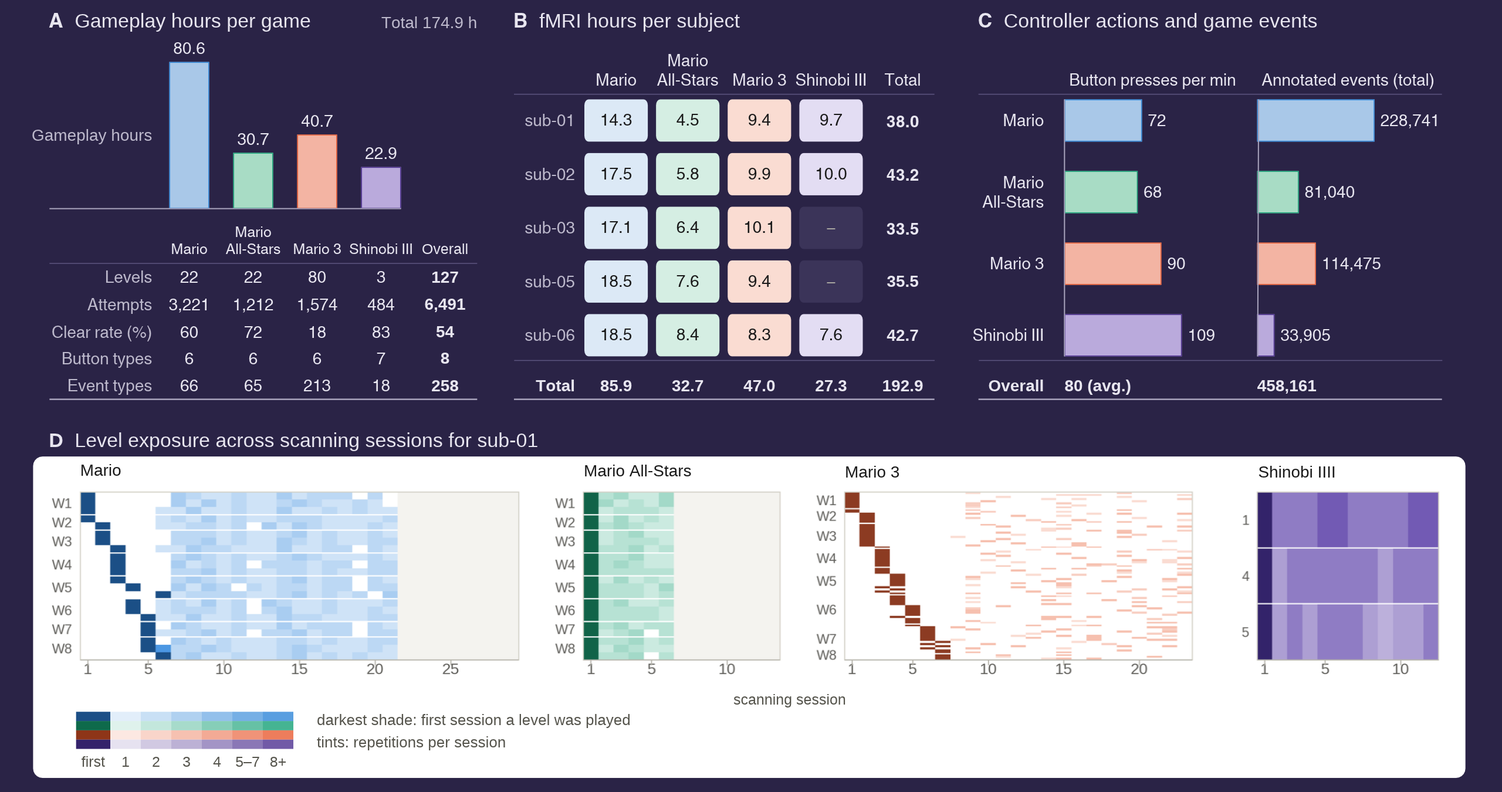
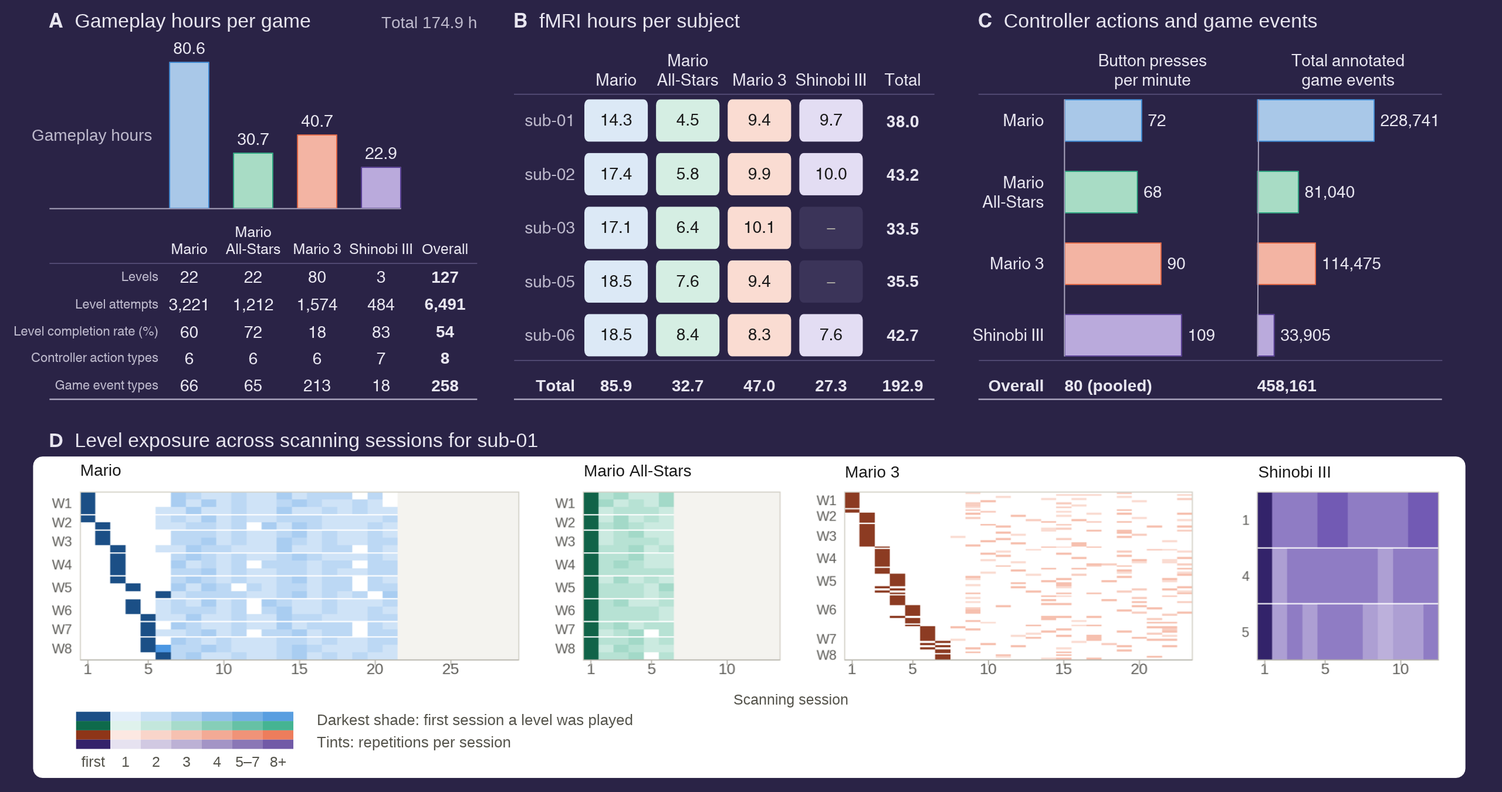
Text fixes

diff --git a/2027/challenge.html b/2027/challenge.html
@@ -128,44 +128,47 @@
         <div class="panel-inner">
             <div class="prose">
                 <h2>Challenge overview</h2>
-                <p>The goal of the Algonauts Project 2027 challenge is to provide a platform where participants can train encoding models of human fMRI responses during gameplay, and then test these models’ generalization both in-distribution (ID) and out-of-distribution (OOD).</p>
+                <p>Participants train encoding models to predict brain responses from gameplay video, audio, controller actions and game events. We measure the responses with functional magnetic resonance imaging (fMRI) and average the signal within each of 1,134 brain regions, called parcels.</p>
+                <p>How well does a model trained on three games predict brain responses during other games? We test in-distribution (ID) generalization using a remake that preserves the levels and basic actions of Super Mario Bros. We test out-of-distribution (OOD) generalization using a separate set of hidden games.</p>
             </div>
 
             <!-- Figure 1 -->
-            <figure class="figure fig1-full">
-                <a class="figure-mat fig1-mat only-dark" href="img/Algonauts%202027%20challenge%20overview%20(wide%20dark).png" target="_blank" rel="noopener">
-                    <img src="img/Algonauts%202027%20challenge%20overview%20(wide%20dark).png" alt="Panels A–C show the training games, the Super Mario All-Stars ID test game and how gameplay data are used to predict fMRI responses in 1,134 parcels. Panels D–F show the baseline brain maps, OOD testing and the public ID and OOD benchmarks." width="2200" height="1850" loading="lazy">
-                </a>
-                <a class="figure-mat fig1-mat only-light" href="img/Algonauts%202027%20challenge%20overview%20(wide).png" target="_blank" rel="noopener">
-                    <img src="img/Algonauts%202027%20challenge%20overview%20(wide).png" alt="Panels A–C show the training games, the Super Mario All-Stars ID test game and how gameplay data are used to predict fMRI responses in 1,134 parcels. Panels D–F show the baseline brain maps, OOD testing and the public ID and OOD benchmarks." width="2200" height="1850" loading="lazy">
-                </a>
-                <figcaption><strong>Figure 1 | Overview of the challenge.</strong> (A–C) Encoding models use gameplay video, audio, controller actions and game event annotations to predict fMRI responses across 1,134 brain parcels.
-                (D) Models train on Super Mario Bros., Super Mario Bros. 3 and Shinobi III. ID testing uses all recorded levels from Super Mario All-Stars. The maps show the baseline model’s per-parcel prediction accuracy averaged across the five test subjects (overall <em>r</em> = 0.209).
-                (E) OOD prediction accuracy determines the final ranking. The question marks represent the OOD games, whose number is undisclosed.
-                (F) ID and OOD testing continue as public benchmarks.
-                <br><a class="fig-open only-dark" href="img/Algonauts%202027%20challenge%20overview%20(wide%20dark).png" target="_blank" rel="noopener">Open full size &#8599;</a><a class="fig-open only-light" href="img/Algonauts%202027%20challenge%20overview%20(wide).png" target="_blank" rel="noopener">Open full size &#8599;</a></figcaption>
+            <figure class="figure">
+                <div class="fig1-full">
+                    <a class="figure-mat fig1-mat only-dark" href="img/Algonauts%202027%20challenge%20overview%20(wide%20dark).png" target="_blank" rel="noopener">
+                        <img src="img/Algonauts%202027%20challenge%20overview%20(wide%20dark).png" alt="Panels A–C show the training games, the Super Mario All-Stars ID test game and how gameplay data are used to predict fMRI responses in 1,134 parcels. Panels D–F show the baseline brain maps, OOD testing and the public ID and OOD benchmarks." width="2200" height="1950" loading="lazy">
+                    </a>
+                    <a class="figure-mat fig1-mat only-light" href="img/Algonauts%202027%20challenge%20overview%20(wide).png" target="_blank" rel="noopener">
+                        <img src="img/Algonauts%202027%20challenge%20overview%20(wide).png" alt="Panels A–C show the training games, the Super Mario All-Stars ID test game and how gameplay data are used to predict fMRI responses in 1,134 parcels. Panels D–F show the baseline brain maps, OOD testing and the public ID and OOD benchmarks." width="2200" height="1950" loading="lazy">
+                    </a>
+                    <a class="fig-open only-dark" href="img/Algonauts%202027%20challenge%20overview%20(wide%20dark).png" target="_blank" rel="noopener">Open full size &#8599;</a><a class="fig-open only-light" href="img/Algonauts%202027%20challenge%20overview%20(wide).png" target="_blank" rel="noopener">Open full size &#8599;</a>
+                </div>
+                <!-- Figure 1, phone version -->
+                <div class="fig-web" role="group" aria-label="Figure 1, simplified">
+                    <p class="label">Figure 1, simplified</p>
+                    <ol class="fw-flow">
+                        <li><span class="fw-k">Input</span><strong>Gameplay data</strong><span>Video, audio, controller actions and game events</span></li>
+                        <li><span class="fw-k">Model</span><strong>Encoding model</strong></li>
+                        <li><span class="fw-k">Output</span><strong>Predicted fMRI</strong><span>1,134 brain parcels</span></li>
+                    </ol>
+                    <ol class="fw-phases">
+                        <li><span class="fw-k">Phase 1</span><strong>Development Phase</strong><span>Model training on Super Mario Bros., Super Mario Bros. 3 and Shinobi III. In-distribution (ID) testing on all recorded levels from Super Mario All-Stars. Baseline <em>r</em> = 0.209.</span></li>
+                        <li><span class="fw-k">Phase 2</span><strong>Generalization Phase</strong><span>Out-of-distribution (OOD) testing on hidden games and final ranking</span></li>
+                        <li><span class="fw-k">After the challenge</span><strong>Post-Challenge Benchmark</strong><span>Ongoing public ID and OOD benchmark</span></li>
+                    </ol>
+                    <p style="margin-top:14px"><a class="text-link only-dark" href="img/Algonauts%202027%20challenge%20overview%20(wide%20dark).png" target="_blank" rel="noopener">Open the original Figure 1 &#8599;</a><a class="text-link only-light" href="img/Algonauts%202027%20challenge%20overview%20(wide).png" target="_blank" rel="noopener">Open the original Figure 1 &#8599;</a></p>
+                </div>
+                <figcaption><strong>Figure 1 | Overview of the Algonauts Project 2027 challenge</strong>.
+                <strong>(A-B)</strong> Challenge participants receive gameplay data in the form of video, audio, controller actions, and game events from four challenge games: <em>Super Mario Bros.</em> (SMB), <em>Super Mario All-Stars</em>, <em>Super Mario Bros. 3</em> (SMB3), and <em>Shinobi III: Return of the Ninja Master</em>.
+                <strong>(C)</strong> This data serves as input to encoding models that predict fMRI responses across 1,134 brain parcels.
+                <strong>(D)</strong> During the challenge Development Phase, models are trained on released fMRI data from SMB, SMB3, and Shinobi III, and tested on all recorded levels from <em>Super Mario All-Stars</em> for in-distribution (ID) generalization. The brain maps show the prediction accuracy of the challenge baseline model on the ID test data, measured as Pearson's <em>r</em> for each brain parcel and averaged across the five test subjects.
+                <strong>(E)</strong> During the Generalization Phase, models are tested on out-of-distribution (OOD) games for OOD generalization, with performance determining the final challenge ranking. All gameplay data are released for both test sets, while the corresponding fMRI responses remain hidden.
+                <strong>(F)</strong> During the Post-Challenge Phase, both ID and OOD testing continue as public benchmarks using the same held-out sets and hidden fMRI responses.</figcaption>
             </figure>
 
-            <!-- Figure 1, phone version -->
-            <div class="fig-web" role="group" aria-label="Figure 1, simplified">
-                <p class="label">Figure 1, simplified</p>
-                <ol class="fw-flow">
-                    <li><span class="fw-k">Input</span><strong>Gameplay data</strong><span>Video, audio, controller actions and game events</span></li>
-                    <li><span class="fw-k">Model</span><strong>Encoding model</strong></li>
-                    <li><span class="fw-k">Output</span><strong>Predicted fMRI</strong><span>1,134 brain parcels</span></li>
-                </ol>
-                <ol class="fw-phases">
-                    <li><span class="fw-k">Phase 1</span><strong>Development Phase</strong><span>Model training on Super Mario Bros., Super Mario Bros. 3 and Shinobi III. In-distribution (ID) testing on all recorded levels from Super Mario All-Stars. Baseline <em>r</em> = 0.209.</span></li>
-                    <li><span class="fw-k">Phase 2</span><strong>Generalization Phase</strong><span>Out-of-distribution (OOD) testing on hidden games and final ranking</span></li>
-                    <li><span class="fw-k">After the challenge</span><strong>Post-Challenge Benchmark</strong><span>Ongoing public ID and OOD benchmark</span></li>
-                </ol>
-                <p style="margin-top:14px"><a class="text-link only-dark" href="img/Algonauts%202027%20challenge%20overview%20(wide%20dark).png" target="_blank" rel="noopener">Open the original Figure 1 &#8599;</a><a class="text-link only-light" href="img/Algonauts%202027%20challenge%20overview%20(wide).png" target="_blank" rel="noopener">Open the original Figure 1 &#8599;</a></p>
-            </div>
-
             <div class="prose block">
-                <p>We provide gameplay video, audio, controller actions and game event annotations aligned with fMRI responses from five subjects.
-                We release both gameplay data and fMRI responses for the three model training games. For both test sets, we release all gameplay data and keep the corresponding fMRI responses hidden.
-                Participants submit predicted fMRI responses to Codabench for scoring.</p>
+                <p>We release gameplay data and the corresponding fMRI responses for the three model training games. The Mario games have recordings from all five subjects and Shinobi III has recordings from three. For both test sets, we release all gameplay data and keep the corresponding fMRI responses hidden.
+                Participants submit predicted fMRI responses to the challenge platform, Codabench, for automatic scoring.</p>
                 <div class="btn-row" style="margin-top:22px">
                     <a href="data.html" class="btn btn-primary">Challenge data</a>
                     <a href="#" class="btn btn-ghost">Participate on Codabench</a><!-- TODO -->
@@ -178,6 +181,7 @@
     <section class="panel" id="phases" role="tabpanel" aria-labelledby="tab-phases">
         <div class="panel-inner">
             <h2>Challenge phases</h2>
+            <p class="prose">The challenge has two competitive phases. During the Development Phase, participants compare models on the in-distribution (ID) test game. During the Generalization Phase, prediction accuracy on the out-of-distribution (OOD) games determines the final ranking. The two tests remain available after the competition.</p>
             <div class="table-wrap">
                 <table class="table">
                     <thead><tr><th>Phase</th><th>Dates</th><th>Test data (fMRI withheld)</th><th>Submissions per team</th></tr></thead>
@@ -193,8 +197,8 @@
                 <p><strong>Model training.</strong> The three <a href="data.html#training-games">model training games</a> are Super Mario Bros., Super Mario Bros. 3 and Shinobi III: Return of the Ninja Master. We provide approximately 144 hours of gameplay data and the corresponding fMRI responses for model training.</p>
                 <p><strong>ID testing.</strong> We use the Super Mario Bros. remake in <a href="data.html#id-test">Super Mario All-Stars</a>, which preserves the original levels and basic actions. We release approximately 30 hours of gameplay data across all 22 recorded levels and five test subjects. The corresponding fMRI responses remain hidden. Participants <a href="#submission">submit predicted fMRI responses</a> to Codabench, where they are scored against the hidden responses. Participants can use their ID scores to compare model variants during this phase.</p>
                 <h3>Generalization Phase</h3>
-                <p><strong>OOD testing.</strong> At the start of this phase, we reveal the <a href="data.html#ood-games">OOD games</a> and release approximately two hours of gameplay data per test subject. We provide the same gameplay data modalities as during the Development Phase and keep the corresponding fMRI responses hidden. Withholding the game identities until this phase begins limits game-specific preparation.</p>
-                <p>Participants submit predicted fMRI responses for the OOD games to Codabench. Game scores are averaged within each subject, weighting games equally, and then averaged across subjects. Only OOD prediction accuracy determines the final ranking among teams that meet the <a href="#rules">requirements for the final ranking</a>. The <a href="#evaluation">Evaluation and submission</a> section describes the scoring procedure.</p>
+                <p><strong>OOD testing.</strong> At the start of this phase, we reveal the <a href="data.html#ood-games">OOD games</a> and release approximately two hours of gameplay data per test subject. We provide the same gameplay data modalities as during the Development Phase and keep the corresponding fMRI responses hidden. Withholding the game identities until this phase begins limits game-specific preparation. The number of question marks in Figure 1 does not indicate how many OOD games will be released.</p>
+                <p>Participants submit predicted fMRI responses for the OOD games to Codabench. Game scores are averaged within each subject, weighting games equally, and then averaged across subjects. Only OOD prediction accuracy determines the final ranking among <a href="#rules">eligible teams</a>. The <a href="#evaluation">Evaluation and submission</a> section describes the scoring procedure.</p>
                 <h3>Post-Challenge Benchmark</h3>
                 <p>Following the competitive phases, the ID and OOD tests remain open as public benchmarks. Participants can submit predictions for the same test gameplay data to compare future models with submissions from the official challenge. The corresponding fMRI responses remain hidden.</p>
             </div>
@@ -206,7 +210,7 @@
         <div class="panel-inner">
         <div class="prose">
             <h2>Evaluation and submission</h2>
-            <p>For each subject and game, Codabench concatenates the predicted and measured fMRI time series across all corresponding gameplay videos in the test set. It then calculates Pearson’s correlation coefficient (<em>r</em>) between the predicted and measured sequences separately for each of the 1,134 brain parcels. The platform averages the parcel correlations to obtain one score per subject and game. For the OOD test set, which contains multiple games, it averages game scores within each subject, weighting games equally. It then averages the scores across subjects to obtain a single prediction accuracy score per submission for each test set. Codabench uses the ID scores to rank submissions on the public leaderboard during the Development Phase, and the OOD scores to determine the final challenge ranking.</p>
+            <p>For each subject and game, Codabench joins the predicted and measured fMRI responses across all corresponding gameplay videos to form two time series. For each of the 1,134 brain parcels, it calculates Pearson’s correlation coefficient (<em>r</em>), which measures how closely the two series vary together over time. The platform averages the parcel correlations to obtain one score per subject and game. For the OOD test set, which contains multiple games, it averages game scores within each subject, weighting games equally. It then averages the scores across subjects to obtain a single prediction accuracy score per submission for each test set. Codabench uses the ID scores to rank submissions on the public leaderboard during the Development Phase, and the OOD scores to determine the final challenge ranking.</p>
             <p>All five subjects are tested: <span class="subj">sub-01</span>, <span class="subj">sub-02</span>,
             <span class="subj">sub-03</span>, <span class="subj">sub-05</span> and <span class="subj">sub-06</span>.</p>
 
@@ -273,18 +277,16 @@
             <div class="block">
                 <div class="prose">
                     <h2>Baseline model</h2>
-                    <p>We provide a challenge baseline model as a working example and a reference point for prediction accuracy. Participants may use their own features, model architectures, and training strategies. Features extracted from the gameplay data are aligned to the 1.49-second fMRI
-                    sampling grid, combined across a window of recent gameplay shifted for the hemodynamic delay, and mapped
-                    onto each of the 1,134 parcels with ridge regression. ID prediction score on Super Mario All-Stars: <em>r</em> = 0.209.</p>
+                    <p>We provide a challenge baseline model as a working example and a reference point for prediction accuracy. Participants may use their own features, model architectures, and training strategies. The model summarizes each gameplay input as a set of numerical features for each 1.49-second fMRI sampling interval. It uses features from recent intervals to account for the delay between neural activity and the measured fMRI response. For each brain parcel, ridge regression fits a weighted combination of these features and penalizes large weights. On the in-distribution test game, Super Mario All-Stars, the baseline achieved a prediction score of <em>r</em> = 0.209.</p>
                 </div>
                 <div class="table-wrap" style="max-width:var(--textw)">
                     <table class="table">
                         <thead><tr><th>Gameplay data</th><th>Features</th></tr></thead>
                         <tbody>
-                            <tr><td>Video</td><td>Slow R50 video network, 100 principal components</td></tr>
-                            <tr><td>Audio</td><td>Mel frequency cepstral coefficients, 10 principal components</td></tr>
-                            <tr><td>Controller actions</td><td>Fraction of each interval a button is held, 9 actions</td></tr>
-                            <tr><td>Game events</td><td>Event activity weighted by sentence embeddings of the event descriptions, 385 features</td></tr>
+                            <tr><td>Video</td><td>Visual features from the Slow R50 video network, summarized by the 100 principal components that capture the most variation</td></tr>
+                            <tr><td>Audio</td><td>Mel-frequency cepstral coefficients, which describe the sound spectrum, summarized by 10 principal components</td></tr>
+                            <tr><td>Controller actions</td><td>Fraction of each interval that each action is held. The Development Kit uses nine action labels, including <code>Action/Other</code>.</td></tr>
+                            <tr><td>Game events</td><td>Each event description is encoded as 384 numbers and weighted by the activity of that event in the interval. Combining these vectors and adding total event activity gives 385 features.</td></tr>
                         </tbody>
                     </table>
                 </div>
@@ -300,7 +302,7 @@
                 <a href="https://doi.org/10.1016/j.conb.2019.04.002" target="_blank" rel="noopener">Kriegeskorte &amp; Douglas, 2019</a>).
                 The Development Kit illustrates the three steps below.</p>
                 <ol class="num-list">
-                    <li><strong>Feature extraction.</strong> Extract features from the gameplay video, audio, controller actions and game event annotations for the model training games.</li>
+                    <li><strong>Feature extraction.</strong> Convert gameplay video, audio, controller actions and game event annotations from the model training games into numerical features.</li>
                     <li><strong>Model training.</strong> Use the paired gameplay features and measured fMRI responses to fit a linear mapping for each brain parcel. The challenge baseline model uses ridge regression.</li>
                     <li><strong>Model testing.</strong> Apply the trained mapping to features from the test gameplay data to predict the corresponding fMRI responses. Codabench compares these predictions with the hidden measured responses.</li>
                 </ol>

diff --git a/2027/data.html b/2027/data.html
@@ -70,7 +70,7 @@
         <div class="page-head-inner">
             <div>
                 <h1>Challenge Data</h1>
-                <p class="lead">The Courtois NeuroMod Project recorded gameplay video, audio, controller actions, game events, and corresponding whole-brain fMRI responses while subjects played four retro video games.</p>
+                <p class="lead">The Courtois NeuroMod Project (CNeuroMod) recorded gameplay video, audio, controller actions and game events while five subjects played retro video games. Functional magnetic resonance imaging (fMRI) measured their brain responses during play.</p>
                 <div class="btn-row">
                     <a href="#" class="btn btn-primary">Request data access</a><!-- TODO: data access form -->
                 </div>
@@ -92,13 +92,13 @@
 
     <div class="hud" role="region" aria-label="Dataset at a glance">
         <div class="hud-inner">
-            <div class="hud-item"><span class="hud-k">Gameplay</span><span class="hud-v">~174 h</span></div>
-            <div class="hud-item"><span class="hud-k">fMRI</span><span class="hud-v">~192 h</span></div>
+            <div class="hud-item"><span class="hud-k">Gameplay</span><span class="hud-v">174.9 h</span></div>
+            <div class="hud-item"><span class="hud-k">fMRI</span><span class="hud-v">192.9 h</span></div>
             <div class="hud-item"><span class="hud-k">Games</span><span class="hud-v">4 + hidden</span></div>
             <div class="hud-item"><span class="hud-k">Subjects</span><span class="hud-v">5</span></div>
             <div class="hud-item"><span class="hud-k">Brain parcels</span><span class="hud-v">1,134</span></div>
-            <div class="hud-item"><span class="hud-k">Sampling (TR)</span><span class="hud-v">1.49 s</span></div>
-            <p class="hud-note">The four challenge games contain approximately 174 hours of gameplay, with about 144 hours for model training and 30 hours for ID testing. The 192 hours of fMRI include periods outside active gameplay, such as loading screens and fixation periods. For ID and OOD testing, participants predict only fMRI responses corresponding to gameplay. All five subjects are tested.</p>
+            <div class="hud-item"><span class="hud-k">fMRI sampling interval</span><span class="hud-v">1.49 s</span></div>
+            <p class="hud-note">The four named games contain about 144 hours of gameplay for model training and 30 hours for in-distribution (ID) testing on the Super Mario Bros. remake. The fMRI recordings also include loading screens and fixation periods, so they are longer than the gameplay recordings. For both ID testing and out-of-distribution (OOD) testing on hidden games, participants predict only the responses during gameplay. Each prediction gives one value per brain region (parcel) every 1.49 seconds.</p>
         </div>
     </div>
 
@@ -108,7 +108,7 @@
             <div class="prose">
                 <h2 class="h2" style="margin-bottom:14px">Access the data</h2>
                 <p>The challenge data are collected and curated by the
-                <a href="https://www.cneuromod.ca/" target="_blank" rel="noopener">Courtois NeuroMod Project (CNeuroMod)</a>.
+                <a href="https://www.cneuromod.ca/" target="_blank" rel="noopener">Courtois NeuroMod Project</a>.
                 Please read the README in each game’s folder before exploring its data: it explains the recording setup,
                 the available files and game-specific caveats.</p>
             </div>
@@ -116,7 +116,7 @@
             <ol class="num-list" style="margin-top:6px">
                 <li>Fill out the <a href="#">data access form</a>.</li><!-- TODO -->
                 <li>You receive the link to the repository with the <strong>challenge data released for the current phase</strong>, and to a tutorial
-                subset with <span class="subj">sub-01</span> used by the Development Kit.</li>
+                subset for one subject (<span class="subj">sub-01</span>) used by the Development Kit.</li>
                 <li>Follow the <a href="challenge.html#baseline">Development Kit</a> to load, align and model the data.</li>
             </ol>
             <!-- Optional external training data -->
@@ -124,7 +124,7 @@
             also train on external data, for example the CNeuroMod
             <a href="https://docs.cneuromod.ca/datasets/friends.html" target="_blank" rel="noopener">Friends</a> and
             <a href="https://docs.cneuromod.ca/datasets/movie10.html" target="_blank" rel="noopener">Movie10</a> datasets,
-            whose fMRI time series have also been extracted with the CNeuroMod 2026 atlas used in this challenge. They are
+            whose fMRI time series have also been extracted with the CNeuroMod 2026 atlas that defines the brain parcels used in this challenge. They are
             not part of the official challenge training data or the ID and OOD test sets.</p>
             </div>
         </div>
@@ -146,9 +146,8 @@
             <section class="games" id="training-games" aria-labelledby="games-title">
                 <h2 id="games-title">Model training games</h2>
                 <p class="games-intro">We release gameplay data and the corresponding fMRI responses for all recorded levels of three
-                games. Super Mario Bros. and Super Mario Bros. 3 provide related environments with differences in visual
-                appearance, level design and game mechanics. Shinobi III differs more substantially in its visual content,
-                actions, event structure and behavioral demands.</p>
+                games. In Super Mario Bros. (SMB) and Super Mario Bros. 3 (SMB3), subjects navigate levels by running, jumping and avoiding or defeating enemies. Shinobi III combines platform navigation with ninja combat.</p>
+                <p class="games-intro">The counts below include attempts across all subjects. An attempt starts when a subject plays a level from the beginning. An attempt can span several lives. Restarting the level from the beginning counts as a new attempt.</p>
                 <ul class="catalog">
                     <li class="cat-item">
                         <div class="cat-shot"><img src="img/games/cat_mario_w1l1.png" alt="Super Mario Bros. gameplay in World 1-1: Mario stands on a row of bricks and ? blocks, a Goomba walks below" width="672" height="378" loading="lazy"></div>
@@ -199,19 +198,18 @@
             <div class="block-rule coverage-wrap" id="subjects">
                 <div class="prose">
                     <h2>Subjects</h2>
-                    <p>Subject coverage differs across games. All five subjects played the three Mario games, and
-                    three of them also played Shinobi III. All five subjects are tested.</p>
+                    <p>Subject coverage differs across games. All five subjects have recordings for the three Mario games. Three of them (sub-01, sub-02 and sub-06) also have recordings for Shinobi III. Both the ID and OOD test sets include all five subjects.</p>
                 </div>
                 <div class="table-wrap">
                     <table class="coverage">
-                        <caption class="sr-only">Games played by each subject</caption>
-                        <thead><tr><th></th><th scope="col">SMB</th><th scope="col">SMB3</th><th scope="col">Shinobi</th><th scope="col" class="c-gap">All-Stars</th></tr></thead>
+                        <caption class="sr-only">Available game recordings for each subject</caption>
+                        <thead><tr><th></th><th scope="col">SMB</th><th scope="col">SMB3</th><th scope="col">Shinobi III</th><th scope="col" class="c-gap">All-Stars</th></tr></thead>
                         <tbody>
-                            <tr><th scope="row">sub-01</th><td class="on"><span class="sr-only">played</span></td><td class="on"><span class="sr-only">played</span></td><td class="on"><span class="sr-only">played</span></td><td class="on c-gap"><span class="sr-only">played</span></td></tr>
-                            <tr><th scope="row">sub-02</th><td class="on"><span class="sr-only">played</span></td><td class="on"><span class="sr-only">played</span></td><td class="on"><span class="sr-only">played</span></td><td class="on c-gap"><span class="sr-only">played</span></td></tr>
-                            <tr><th scope="row">sub-03</th><td class="on"><span class="sr-only">played</span></td><td class="on"><span class="sr-only">played</span></td><td><span class="sr-only">not played</span></td><td class="on c-gap"><span class="sr-only">played</span></td></tr>
-                            <tr><th scope="row">sub-05</th><td class="on"><span class="sr-only">played</span></td><td class="on"><span class="sr-only">played</span></td><td><span class="sr-only">not played</span></td><td class="on c-gap"><span class="sr-only">played</span></td></tr>
-                            <tr><th scope="row">sub-06</th><td class="on"><span class="sr-only">played</span></td><td class="on"><span class="sr-only">played</span></td><td class="on"><span class="sr-only">played</span></td><td class="on c-gap"><span class="sr-only">played</span></td></tr>
+                            <tr><th scope="row">sub-01</th><td class="on"><span class="sr-only">recorded</span></td><td class="on"><span class="sr-only">recorded</span></td><td class="on"><span class="sr-only">recorded</span></td><td class="on c-gap"><span class="sr-only">recorded</span></td></tr>
+                            <tr><th scope="row">sub-02</th><td class="on"><span class="sr-only">recorded</span></td><td class="on"><span class="sr-only">recorded</span></td><td class="on"><span class="sr-only">recorded</span></td><td class="on c-gap"><span class="sr-only">recorded</span></td></tr>
+                            <tr><th scope="row">sub-03</th><td class="on"><span class="sr-only">recorded</span></td><td class="on"><span class="sr-only">recorded</span></td><td><span class="sr-only">not recorded</span></td><td class="on c-gap"><span class="sr-only">recorded</span></td></tr>
+                            <tr><th scope="row">sub-05</th><td class="on"><span class="sr-only">recorded</span></td><td class="on"><span class="sr-only">recorded</span></td><td><span class="sr-only">not recorded</span></td><td class="on c-gap"><span class="sr-only">recorded</span></td></tr>
+                            <tr><th scope="row">sub-06</th><td class="on"><span class="sr-only">recorded</span></td><td class="on"><span class="sr-only">recorded</span></td><td class="on"><span class="sr-only">recorded</span></td><td class="on c-gap"><span class="sr-only">recorded</span></td></tr>
                         </tbody>
                     </table>
                 </div>
@@ -230,9 +228,12 @@
                     <a class="figure-mat fig2-mat only-light" href="img/Algonauts%202027%20dataset%20overview%20figure.png" target="_blank" rel="noopener">
                         <img src="img/Algonauts%202027%20dataset%20overview%20figure.png" alt="Gameplay hours and level statistics per game, fMRI hours per subject and game (192.9 hours in total), button presses per minute and annotated game events per game, and level exposure across scanning sessions for sub-01." width="2560" height="1350" loading="lazy">
                     </a>
-                    <figcaption><strong>Figure 2 | Scale and coverage of the data.</strong> (A) Gameplay hours per game, with levels, level attempts, level completion rate, controller action types and game event types. (B) fMRI hours per subject and game.
-                    (C) Button presses per minute and total annotated game events per game. (D) Level exposure across scanning sessions for sub-01.
-                    <br><a class="fig-open only-dark" href="img/Algonauts%202027%20dataset%20overview%20figure%20dark.png" target="_blank" rel="noopener">Open full size &#8599;</a><a class="fig-open only-light" href="img/Algonauts%202027%20dataset%20overview%20figure.png" target="_blank" rel="noopener">Open full size &#8599;</a></figcaption>
+                    <a class="fig-open only-dark" href="img/Algonauts%202027%20dataset%20overview%20figure%20dark.png" target="_blank" rel="noopener">Open full size &#8599;</a><a class="fig-open only-light" href="img/Algonauts%202027%20dataset%20overview%20figure.png" target="_blank" rel="noopener">Open full size &#8599;</a>
+                    <figcaption><strong>Figure 2 | Scale and coverage of the gameplay and fMRI data</strong>.
+                    <strong>(A)</strong> Recorded gameplay hours for each game, together with the number of levels, level attempts, level completion rate, controller action types, and game event types. A level attempt starts when a level is started from the beginning and can span several lives. The level completion rate is the percentage of attempts completed successfully. Controller action types are distinct buttons or directional inputs, while game event types are distinct annotation labels describing player events, visible objects, and game states.
+                    <strong>(B)</strong> Available fMRI hours for each subject and game, with totals across games shown for each subject. Grey cells indicate that a game was not recorded for a subject.
+                    <strong>(C)</strong> Button presses per minute of recorded gameplay and the total number of annotated game events for each game.
+                    <strong>(D)</strong> Level exposure across scanning sessions for subject 1 (sub-01). Levels in the Mario games are grouped by world (e.g., W1 denotes World 1). The darkest shade marks the first session in which each level was played. Other shades indicate the number of recorded repetitions per session. Plots for all subjects are provided in the challenge GitHub repository.</figcaption>
                 </figure>
             </details>
         </div>
@@ -243,7 +244,7 @@
         <div class="panel-inner">
             <div class="prose">
                 <h2>Gameplay recordings and annotations</h2>
-                <p>The data are organized by subject, session and run. A run can contain several attempts at a level, and the same level can be repeated within or across runs.</p>
+                <p>The data are organized by subject, scanning session and run. A run is one continuous fMRI recording within a session. During a run, a subject may start several level attempts. The same level can be repeated within or across runs.</p>
                 <p>Video and audio document the visual and auditory stimulation presented to the subjects. Controller action annotations describe button presses and holds, while game event annotations identify events such as collecting items, taking damage, defeating enemies, and completing levels. The events table for each fMRI run contains timestamped controller actions and game events. The example below aligns three video frames with annotations from the same gameplay recording.</p>
             </div>
 
@@ -363,8 +364,7 @@
 </tbody>
 </table>
 </div>
-                <p class="codeblock-cap">Rows copied from the events table, other columns omitted. The <code>gym-retro_game</code>
-                row places the recording in the run; frame indices count from the start of that recording.</p>
+                <p class="codeblock-cap">Selected rows and columns from the events table. Onset and duration are in seconds. The <code>gym-retro_game</code> row gives the recording’s start time within the run. Frame indices count from the start of that recording.</p>
                 </details>
             </div>
 
@@ -379,8 +379,7 @@
                     <code>Action/Jump</code>, <code>Action/Attack</code>, …</dd>
                     <dt>Game events</dt>
                     <dd>Occurrences such as <code>Item_collected/Coin</code>, <code>Enemy_defeated/Stomp/Goomba</code>,
-                    <code>Player_damaged</code> or <code>Level_completed</code>: 258 distinct labels across the four games, each
-                    described in natural language in <code>task-&lt;game&gt;_events.json</code>.</dd>
+                    <code>Player_damaged</code> or <code>Level_completed</code>. Across the four games there are 258 distinct game-event labels, excluding controller actions and gameplay video boundary markers. Each game’s <code>task-&lt;game&gt;_events.json</code> describes its labels.</dd>
                     <dt>Timing</dt>
                     <dd>A scanning session contains several fMRI runs, and each run contains several gameplay repetitions. Each run
                     has one events table, and all its timestamps are measured from the start of the run, shared with the fMRI
@@ -396,14 +395,14 @@
             <div class="prose">
                 <h2>fMRI responses</h2>
                 <p>We provide functional magnetic resonance imaging (fMRI) responses recorded during gameplay. The blood-oxygen-level-dependent (BOLD) signal measures brain activity indirectly through changes in blood oxygenation. The hemodynamic response typically peaks about 5–6 seconds after a brief neural event.</p>
-                <p>The neural data were derived from preprocessed BOLD images in MNI template space using the <a href="https://docs.cneuromod.ca/contents/timeseries.html#code" target="_blank" rel="noopener">CNeuroMod time
+                <p>The neural data were derived from preprocessed BOLD images aligned to the Montreal Neurological Institute (MNI) anatomical template using the <a href="https://docs.cneuromod.ca/contents/timeseries.html#code" target="_blank" rel="noopener">CNeuroMod time
                 series extraction pipeline</a>. The voxel time series were denoised for motion, tissue and global signal
-                contributions and slow drift, smoothed with a 5 mm FWHM kernel and standardized within each run, then
+                contributions and slow drift, smoothed with a kernel with a full width at half maximum (FWHM) of 5 mm and standardized within each run, then
                 averaged within the 1,134 parcels of the CNeuroMod 2026 atlas.</p>
             </div>
             <dl class="dl block">
                 <dt>Format</dt><dd>One <code>.h5</code> file per subject and model training game they played, with one array per fMRI run</dd>
-                <dt>Run array</dt><dd><code>(N samples, 1134 parcels)</code>, one sample every 1.49 seconds (TR)</dd>
+                <dt>Run array</dt><dd><code>(N samples, 1134 parcels)</code>, where N is the number of time points in the run. The interval between samples (repetition time, TR) is 1.49 seconds.</dd>
                 <dt>Space</dt><dd>MNI152NLin2009cAsym</dd>
                 <dt>Atlas</dt><dd><a href="https://docs.cneuromod.ca/contents/timeseries.html#file-details" target="_blank" rel="noopener">CNeuroMod 2026 atlas</a> with cortical, subcortical and cerebellar parcels, in the shared <code>atlases/</code> folder</dd>
             </dl>
@@ -414,6 +413,7 @@
     <section class="panel" id="files" role="tabpanel" aria-labelledby="tab-files">
         <div class="panel-inner">
             <h2>File structure</h2>
+            <p class="prose">Each game has a <code>gamelogs/</code> folder for gameplay recordings and annotations. For the model training games, <code>fmri/</code> contains the corresponding brain responses. In the example below, <code>sub-01</code> identifies the subject and <code>ses-001</code> identifies the scanning session.</p>
 <pre class="codeblock">algonauts_2027.competitors/
 ├── README.md
 ├── <span class="h">mario/</span>

diff --git a/2027/index.html b/2027/index.html
@@ -145,7 +145,7 @@
                         <time datetime="2026-07">Jul 2026</time>
                         <p>We announced the Algonauts Project 2027 Challenge, <em>How the Human Brain Makes Sense of Video
                         Games</em>, in collaboration with the Courtois NeuroMod Project, concluding with a session at
-                        CCN 2027 in Edinburgh.</p>
+                        the 2027 Cognitive Computational Neuroscience (CCN) conference in Edinburgh.</p>
                     </li>
                 </ul>
             </div>
@@ -201,7 +201,7 @@
             <div class="challenge-grid">
                 <div class="prose">
                     <p>In earlier Algonauts challenges, participants built models that predicted brain responses while people viewed images, videos and, in 2025, multimodal movies. During gameplay, perception and action form a closed loop. What players see and hear guides their decisions and actions, and those actions shape what they see and hear next.</p>
-                    <p>The 2027 challenge asks teams to predict human brain activity during gameplay. In collaboration with the <a href="https://www.cneuromod.ca/" target="_blank" rel="noopener">Courtois NeuroMod Project (CNeuroMod)</a>, we provide gameplay video, audio, controller actions and game event annotations aligned with functional magnetic resonance imaging (fMRI) measurements. We test the models on the Super Mario Bros. remake in Super Mario All-Stars for in-distribution (ID) generalization and on hidden games for out-of-distribution (OOD) generalization. Only prediction accuracy on the OOD games determines the final ranking.</p>
+                    <p>The 2027 challenge asks teams to predict human brain activity during gameplay. In collaboration with the <a href="https://www.cneuromod.ca/" target="_blank" rel="noopener">Courtois NeuroMod Project (CNeuroMod)</a>, we provide gameplay video, audio, controller actions and game event annotations aligned with fMRI measurements. For in-distribution (ID) testing, models predict responses to the Super Mario Bros. remake in Super Mario All-Stars, which preserves the original levels and basic actions. For out-of-distribution (OOD) testing, models predict responses to a separate set of hidden games. Only prediction accuracy on the OOD games determines the final ranking.</p>
                     <div class="btn-row">
                         <a href="challenge.html" class="btn btn-primary">Challenge details &rarr;</a>
                     </div>
@@ -290,7 +290,7 @@
             <div>
                 <h2 class="h2 col-title">Cite</h2>
                 <p>If you use the resources provided for the Algonauts Project 2027 Challenge, please cite the following papers:</p>
-                <p class="cite">Bersch D, Gifford A, St-Laurent M, Harel Y, Pinsard B, Boyle J, Oliva A, Bellec L, Roig G,
+                <p class="cite">Bersch D, Gifford A, St-Laurent M, Harel Y, Pinsard B, Boyle J, Lam C, Delhaye H, Oliva A, Bellec L, Roig G,
                 Cichy RM. The Algonauts Project 2027 Challenge: How the Human Brain Makes Sense of Video Games.
                 <em>Preprint link to be added.</em></p>
                 <p class="cite">CNeuroMod publication. <em>To be added.</em></p>
